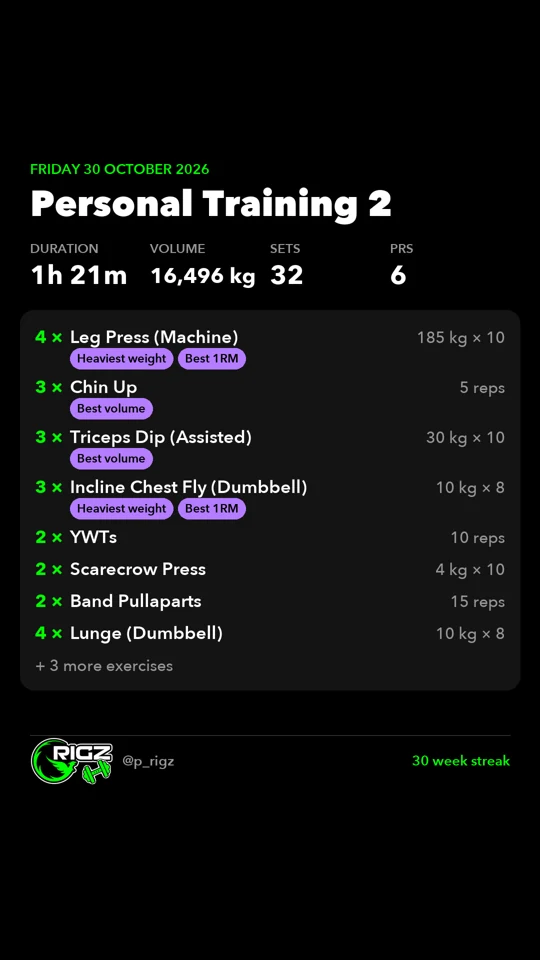
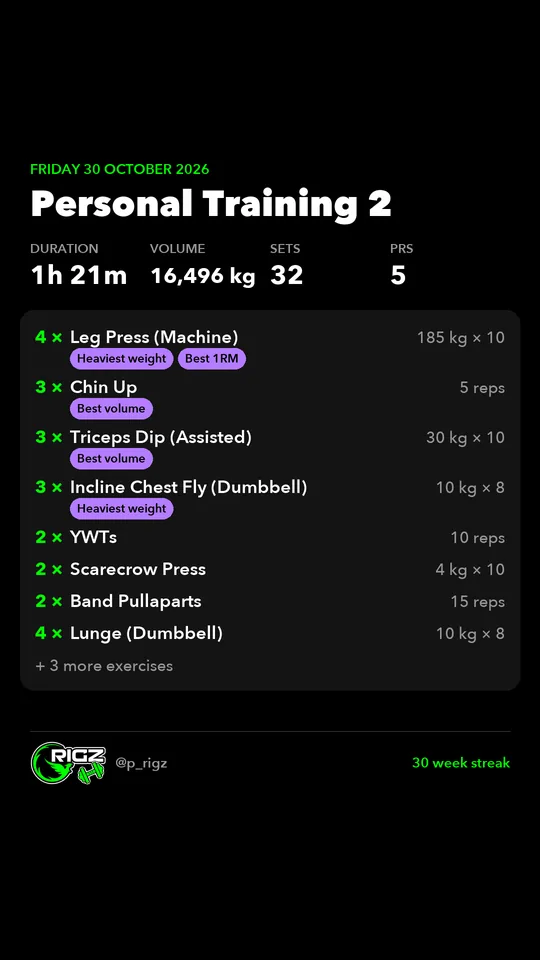
Liftz cards remade with the new footer spacing
Same workouts and figures as of 16 Nov 2026; the story card's description now says
5 PRs, as the card does.

diff --git a/liftz/index.html b/liftz/index.html
@@ -40,7 +40,7 @@
       <a class="btn solid" href="#gym">See it in action</a><a class="btn ghost" href="https://www.instagram.com/p_rigz/">Follow @p_rigz</a><a class="btn ghost" href="https://hevy.com/user/prigz">Follow on Hevy</a>
     </div>
     <div class="phone">
-      <img src="../img/story.webp" alt="Story card for Personal Training 2: 1 hour 21 minutes, 16,496 kg, 32 sets, 6 PRs, with every exercise and best set listed" width="540" height="960" fetchpriority="high">
+      <img src="../img/story.webp" alt="Story card for Personal Training 2: 1 hour 21 minutes, 16,496 kg, 32 sets, 5 PRs, with every exercise and best set listed" width="540" height="960" fetchpriority="high">
     </div>
   </div>
 </section>
